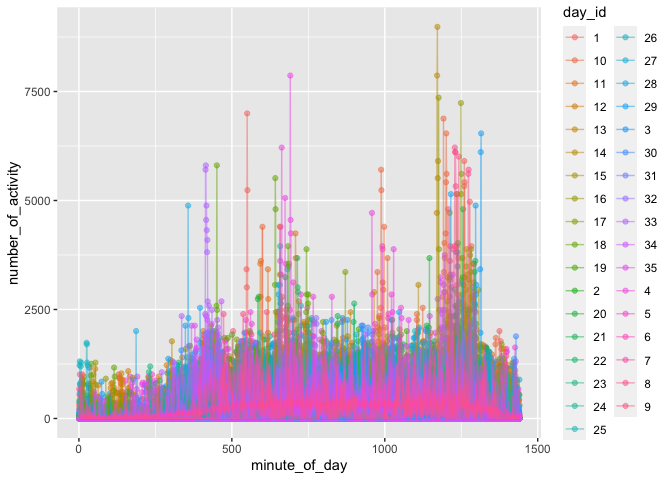
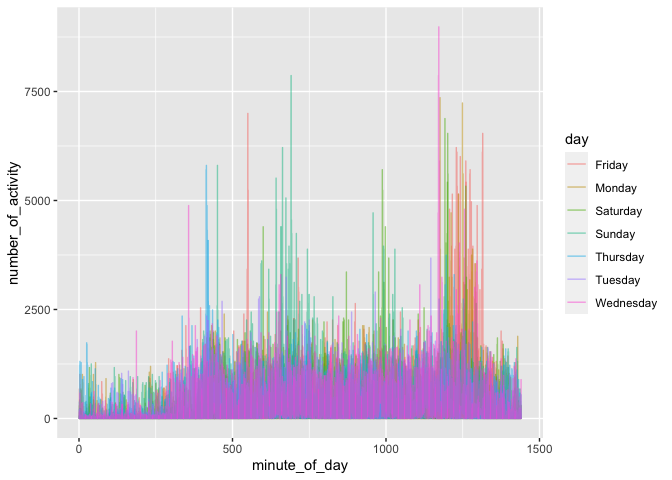
Polish!

diff --git a/p8105_hm3_kh3074.md b/p8105_hm3_kh3074.md
@@ -69,10 +69,11 @@ summary(instacart)
     identifier, ***reordered*** equals 1 if the product is ordered by
     the user in the past, ***order\_dow*** is the day of the week on
     which the product was placed, ***days\_since\_prior\_order*** is
-    days since the last order, capped at 30, NA if order\_number=1.  
+    days since the last order, capped at 30, NA if order\_number=1.All
+    the orders are selected from eval\_set == train.  
 -   Take the first line as an example, Bulgarian Yogurt was placed by
-    user ‘112108’ from ‘dairy eggs’ department. This is not the first
-    time the user buys this item.
+    user ‘112108’ from ‘dairy eggs’ department. The user has already
+    bought this item before.
 
 ### 2
 
@@ -93,8 +94,8 @@ instacart%>%
 | packaged cheese               |  41699 |
 | water seltzer sparkling water |  36617 |
 
--   There are 134 aisles in the data, accroding the data frame, fresh
-    vegetable is the most ordered item.
+-   There are 134 aisles in the data, accroding the data frame, ***fresh
+    vegetable*** is the most ordered item.
 
 ### 3
 
@@ -148,7 +149,7 @@ instacart%>%
     mean_hour_of_day = mean(order_hour_of_day)
   )%>%
   pivot_wider(
-    names_from = product_name,
+    names_from = order_dow,
     values_from = mean_hour_of_day
   )%>%
   knitr::kable()
@@ -156,15 +157,10 @@ instacart%>%
 
     ## `summarise()` has grouped output by 'order_dow'. You can override using the `.groups` argument.
 
-| order\_dow | Coffee Ice Cream | Pink Lady Apples |
-|-----------:|-----------------:|-----------------:|
-|          0 |         13.77419 |         13.44118 |
-|          1 |         14.31579 |         11.36000 |
-|          2 |         15.38095 |         11.70213 |
-|          3 |         15.31818 |         14.25000 |
-|          4 |         15.21739 |         11.55172 |
-|          5 |         12.26316 |         12.78431 |
-|          6 |         13.83333 |         11.93750 |
+| product\_name    |        0 |        1 |        2 |        3 |        4 |        5 |        6 |
+|:-----------------|---------:|---------:|---------:|---------:|---------:|---------:|---------:|
+| Coffee Ice Cream | 13.77419 | 14.31579 | 15.38095 | 15.31818 | 15.21739 | 12.26316 | 13.83333 |
+| Pink Lady Apples | 13.44118 | 11.36000 | 11.70213 | 14.25000 | 11.55172 | 12.78431 | 11.93750 |
 
 # Problem 2
 
@@ -224,7 +220,18 @@ state_2002 =
   rename('state_2002' = locationabbr)%>%
   summarize(locations_obversed = n()/5)%>% #Five levels for each location
   filter(locations_obversed >= 7)
+state_2002%>%
+  knitr::kable()
 ```
+
+| state\_2002 | locations\_obversed |
+|:------------|--------------------:|
+| CT          |                   7 |
+| FL          |                   7 |
+| MA          |                   8 |
+| NC          |                   7 |
+| NJ          |                   8 |
+| PA          |                  10 |
 
 -   According to the table, there are 6 states were observed at more
     than 7 locations.
@@ -237,7 +244,26 @@ state_2010 =
   rename('state_2010' = locationabbr)%>%
   summarize(locations_obversed = n()/5)%>% #Five levels for each location
   filter(locations_obversed >= 7)
+state_2010%>%
+  knitr::kable()
 ```
+
+| state\_2010 | locations\_obversed |
+|:------------|--------------------:|
+| CA          |                  12 |
+| CO          |                   7 |
+| FL          |                  41 |
+| MA          |                   9 |
+| MD          |                  12 |
+| NC          |                  12 |
+| NE          |                  10 |
+| NJ          |                  19 |
+| NY          |                   9 |
+| OH          |                   8 |
+| PA          |                   7 |
+| SC          |                   7 |
+| TX          |                  16 |
+| WA          |                  10 |
 
 -   According to the table, there are 14 states were observed at more
     than 7 locations.
@@ -301,23 +327,24 @@ accel_tidy =
     values_to = 'number_of_activity' #merge the acctivity per minuter to a single column
   )%>%
   mutate(minute_of_day = str_replace(minute_of_day,'activity.',''))%>% 
-  mutate(minute_of_day = as.numeric(minute_of_day)) # translate minute variable to numeric
+  mutate(minute_of_day = as.numeric(minute_of_day))%>% # translate minute variable to numeric
+  mutate(weekday_or_weekend = ifelse(day %in% c('Saturday','Sunday'),'weekend','weekday'))
 accel_tidy
 ```
 
-    ## # A tibble: 50,400 x 5
-    ##     week day_id day    minute_of_day number_of_activity
-    ##    <dbl>  <dbl> <chr>          <dbl>              <dbl>
-    ##  1     1      1 Friday             1               88.4
-    ##  2     1      1 Friday             2               82.2
-    ##  3     1      1 Friday             3               64.4
-    ##  4     1      1 Friday             4               70.0
-    ##  5     1      1 Friday             5               75.0
-    ##  6     1      1 Friday             6               66.3
-    ##  7     1      1 Friday             7               53.8
-    ##  8     1      1 Friday             8               47.8
-    ##  9     1      1 Friday             9               55.5
-    ## 10     1      1 Friday            10               43.0
+    ## # A tibble: 50,400 x 6
+    ##     week day_id day    minute_of_day number_of_activity weekday_or_weekend
+    ##    <dbl>  <dbl> <chr>          <dbl>              <dbl> <chr>             
+    ##  1     1      1 Friday             1               88.4 weekday           
+    ##  2     1      1 Friday             2               82.2 weekday           
+    ##  3     1      1 Friday             3               64.4 weekday           
+    ##  4     1      1 Friday             4               70.0 weekday           
+    ##  5     1      1 Friday             5               75.0 weekday           
+    ##  6     1      1 Friday             6               66.3 weekday           
+    ##  7     1      1 Friday             7               53.8 weekday           
+    ##  8     1      1 Friday             8               47.8 weekday           
+    ##  9     1      1 Friday             9               55.5 weekday           
+    ## 10     1      1 Friday            10               43.0 weekday           
     ## # … with 50,390 more rows
 
 -   There are total 50400 rows of obs in the tidy dataset, which contain
@@ -390,8 +417,7 @@ sequence.
 # plot in minute
 accel_tidy%>%
   mutate(day_id = as.character(day_id))%>%
-  ggplot(aes(x = minute_of_day,y = number_of_activity,color = day_id))+
-  geom_point(alpha = 0.5)+
+  ggplot(aes(x = minute_of_day,y = number_of_activity,color = day))+
   geom_line(alpha = 0.5)
 ```
 
@@ -404,18 +430,42 @@ accel_tidy%>%
   mutate(hour_of_day = ceiling(minute_of_day/60))%>%
   group_by(day_id,hour_of_day)%>%
   summarize(
-    numberof_activities_hour = sum(number_of_activity)
+    numberof_activities_hour = sum(number_of_activity),
+    day = day
   )%>%
-  ggplot(aes(x = hour_of_day, numberof_activities_hour ,color = day_id))+
-  geom_point(alpha = 0.5)+
+  ggplot(aes(x = hour_of_day, numberof_activities_hour ,color = day))+
   geom_line(alpha = 0.5)
 ```
 
-    ## `summarise()` has grouped output by 'day_id'. You can override using the `.groups` argument.
+    ## `summarise()` has grouped output by 'day_id', 'hour_of_day'. You can override using the `.groups` argument.
 
-![](p8105_hm3_kh3074_files/figure-gfm/unnamed-chunk-15-2.png)<!-- --> -
-From the activities per day in minute and in hour, we can find out that,
-activities before 5 am and realy stable, within 1\~4 pm is relatively
-low. - number of activities in 8\~12 am is relatively high - 20\~22 pm
-is the peak of activities for every day. - The curve in the plot fits
-people’s daily routine very well。
+![](p8105_hm3_kh3074_files/figure-gfm/unnamed-chunk-15-2.png)<!-- -->
+
+``` r
+#plot divided by weekday and weekend
+accel_tidy%>%
+  mutate(day_id = as.character(day_id))%>%
+  mutate(hour_of_day = ceiling(minute_of_day/60))%>%
+  group_by(day_id,hour_of_day)%>%
+  summarize(
+    numberof_activities_hour = sum(number_of_activity),
+    weekday_or_weekend = weekday_or_weekend
+  )%>%
+  ggplot(aes(x = hour_of_day, numberof_activities_hour ,color = weekday_or_weekend))+
+  geom_line(alpha = 0.5)
+```
+
+    ## `summarise()` has grouped output by 'day_id', 'hour_of_day'. You can override using the `.groups` argument.
+
+![](p8105_hm3_kh3074_files/figure-gfm/unnamed-chunk-15-3.png)<!-- -->
+
+-   From the activities per day in minute and in hour, we can find out
+    that, activities before 5 am and realy stable, within 1\~4 pm is
+    relatively low.
+-   number of activities in 8\~12 am is relatively high
+-   20\~22 pm is the peak of activities for every day.
+-   The curve in the plot fits people’s daily routine very well.
+-   From the weekday vs weekend plot we can find out that during
+    weekdays, 6\~10 am and 8\~10 pm are the peak of activities, during
+    weekend the number of activities between 10\~20 is relatively higher
+    than weekdays.
